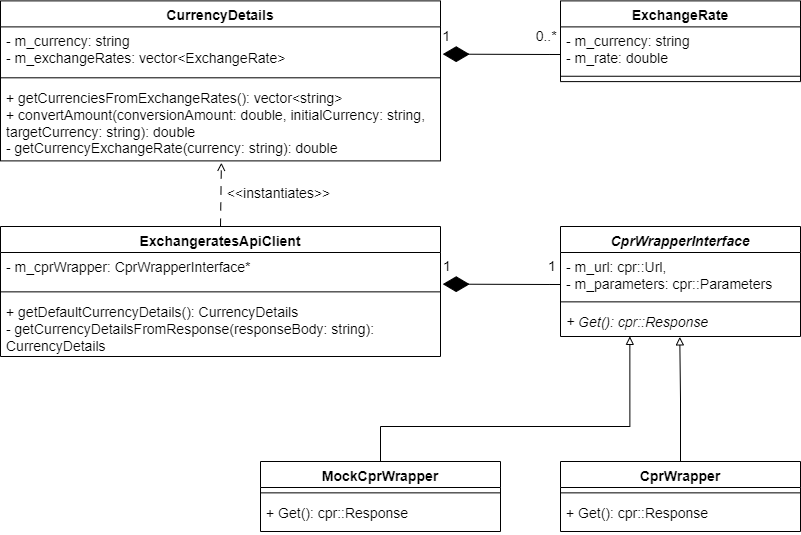
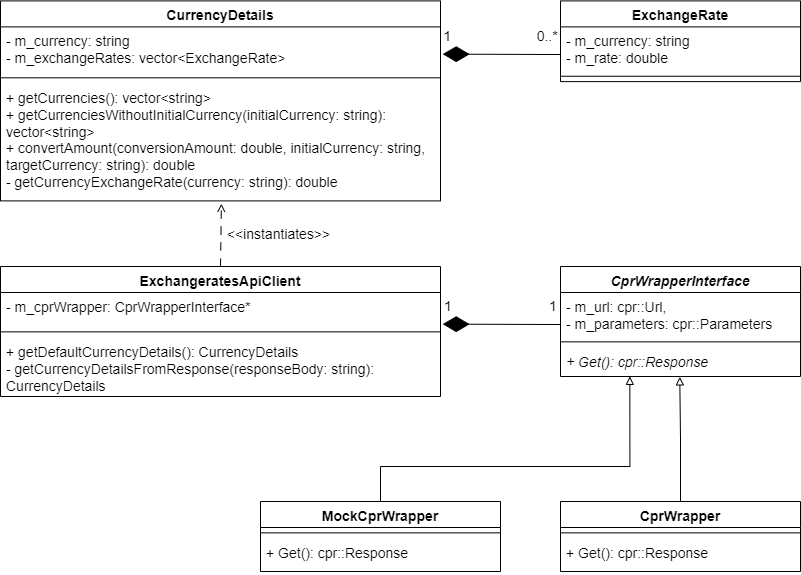
- Updated use case description - Updated class diagram and description - Updated Convert Currency activity diagram - Added activity diagram for getDefaultCurrencyDetails - Added activity diagram for getCurrencySelection - Added activity diagram for convertAmount

diff --git a/documentation/README.md b/documentation/README.md
@@ -13,6 +13,10 @@ This file contains all the documentation to CurrCalc's software design. This inc
   4.2 **[Use Case Description](#use-case-description)**</br>
 5. **[Class Diagram](#class-diagram)**</br>
 6. **[Activity Diagrams](#activity-diagrams)**</br>
+  6.1 **[Convert Currency](#convert-currency)**</br>
+  6.2 **[getDefaultCurrencyDetails](#getDefaultCurrencyDetails)**</br>
+  6.3 **[getCurrencySelection](#getCurrencySelection)**</br>
+  6.4 **[convertAmount](#convertAmount)**</br>
 
 # Goal
 
@@ -82,12 +86,12 @@ There is only one possible use case when interacting with CurrCalc. The "Convert
 		<td>
 			<ol type="1">
 				<li>CurrCalc prints a welcome message for the user in the terminal.</li>
-				<li>CurrCalc sends an HTTP GET request to the exchangerates API to retrieve Euro currency detail
+				<li>CurrCalc sends an HTTP GET request to the exchangerates API to retrieve default currency details
 					<ol type="i">
-						<li>The API responds with a JSON object containing the currency detail for the Euro currency, including all exchange rates</li>
+						<li>The API responds with a JSON object containing the currency details for the default currency, including all exchange rates</li>
 					</ol>
 				</li>
-				<li>CurrCalc outputs a numbered list of currencies, extracted from the Euro currency detail, and prompts the user to pick one for the initial currency
+				<li>CurrCalc outputs a numbered list of currencies, extracted from the default currency details, and prompts the user to pick one for the initial currency
 					<ol type="i">
 						<li>The user types in the number of the desired initial currency
 							<ol type="a">
@@ -96,7 +100,7 @@ There is only one possible use case when interacting with CurrCalc. The "Convert
 						</li>
 					</ol>
 				</li>
-				<li>CurrCalc outputs a numbered list of currencies, extracted from the Euro currency detail and excluding the initial currency, and prompts the user to pick one for the target currency
+				<li>CurrCalc outputs a numbered list of currencies, extracted from the default currency details and excluding the initial currency, and prompts the user to pick one for the target currency
 					<ol type="i">
 						<li>The user types in the number of the desired target currency
 							<ol type="a">
@@ -191,11 +195,13 @@ There is only one possible use case when interacting with CurrCalc. The "Convert
 ![CurrCalc Class Diagram](https://github.com/DusDus3428/CPP_CurrCalc/blob/feature/01_design/documentation/images/diagrams/03_CurrCalc_ClassDiagram.png "CurrCalc Class Diagram")
 
 At the heart of CurrCalc we will find three classes CurrencyDetails, ExchangeRate, and ExchangeratesApiClient.<br/> 
-CurrencyDetails holds two public properties, a string called "m_currency" for the name of the currency, and a list of ExchangeRate objects called "m_exchangeRates". The latter leads to a composition relationship from CurrencyDetails to ExchangeRate, which also holds two public properties, a string called "m_currency" for the name of the currency, and a double called "m_rate" for the actual exchange rate.<br/>. CurrencyDetails also has the public "getCurrenciesFromExchangeRates" and "convertAmount" methods. The former uses the m_exchangeRates property to extract all the currency names and pack them into a list which is then returned, wile the latter takes a conversion amount, and the initial and target currencies to perform a conversion using the m_exchangeRates property.<br/>
+CurrencyDetails holds two public properties, a string called "m_currency" for the name of the currency, and a list of ExchangeRate objects called "m_exchangeRates". The latter leads to a composition relationship from CurrencyDetails to ExchangeRate, which also holds two public properties, a string called "m_currency" for the name of the currency, and a double called "m_rate" for the actual exchange rate. The public methods "getCurrencies" and "getCurrenciesWithoutInitialCurrency" use the m_exchangeRates property to extract the currency names and pack them into a list which is then returned. The latter just excludes the initial currency from the list. The "convertAmount" method takes a conversion amount, and the initial and target currencies to perform a conversion using the m_exchangeRates property.<br/>
 Then there is ExchangeratesApiClient. As its name states, it represents the client that sends requests to the exchangesrates API and handles the responses. Its only property is "m_cprWrapper", a pointer to a CprWrapperInterface object, which leads to a composition relationship to the abstract class CprWrapperInterface. This will be explained shortly. The public getDefaultCurrencyDetails() method sends a request to the API to retrieve the currency details of the API's default currency (currently it's EUR). Then it utilizes the private getCurrencyDetailsFromResponse() method, which takes the response body as an argument, to extract and transform the information into a CurrencyDetails object.<br/>
 As mentioned above a ExchangeratesApiClient object has an attribute that points to a CprWrapperInterface object. CprWrapperInterface wraps the Get() method from the cpr library in a virtual method of the same name. Cpr's get method sends GET requests to APIs using a URL and parameters. That is why CprWrapperInterface has the two attributes "m_url" and "m_parameters". Two concrete classes inherit from this abstract one: CprWrapper and MockCprWrapper. CprWrapper implements the inherited Get() method which simply returns the cpr library's Get() method. MockCprWrapper is used for testing purposes to mock GET requests and the responses. This is why CprWrapperInterface mainly exists: to decouple the code and make it more testable for unit tests.
 
 # Activity Diagrams
+
+## Convert Currency
 
 ![CurrCalc Activity Diagram for Convert Currency](https://github.com/DusDus3428/CPP_CurrCalc/blob/feature/01_design/documentation/images/diagrams/04_CurrCalc_ActivityDiagram_ConvertCurrency.png "CurrCalc Activity Diagram for Convert Currency")
 
@@ -205,4 +211,14 @@ After the selection has been made, CurrCalc uses it to request the full details 
 Next, the user must choose the target currency from a numbered list. The activity Get Currency Selection is reused here. The only difference is that the numbered list is gathered from the initial currency's exchange rates. This is done for two reasons: on one hand, we do not know if the API has all the exchange rates for the selected initial currency, and on the other, we do not need to include the initial currency.<br/>
 Once this is done, the specified amount will be converted from the initial currency into the target one and the results will be printed to the console. Then the CurrCalc program is terminated. 
 
-Please note that this is a very simplified activity diagram that displays the rough ideal flow of the program. All the possibilities of program termination are not depicted. However, they are described in the use case table **[here](#use-cases)**.
+## getDefaultCurrencyDetails
+
+![CurrCalc Activity Diagram for getDefaultCurrencyDetails](https://github.com/DusDus3428/CPP_CurrCalc/blob/feature/01_design/documentation/images/diagrams/05_CurrCalc_ActivityDiagram_getDefaultCurrencyDetails.png "CurrCalc Activity Diagram for getDefaultCurrencyDetails")
+
+## getCurrencySelection
+
+![CurrCalc Activity Diagram for getCurrencySelection](https://github.com/DusDus3428/CPP_CurrCalc/blob/feature/01_design/documentation/images/diagrams/06_CurrCalc_ActivityDiagram_getCurrencySelection.png "CurrCalc Activity Diagram for getCurrencySelection")
+
+## convertAmount
+
+![CurrCalc Activity Diagram for convertAmount](https://github.com/DusDus3428/CPP_CurrCalc/blob/feature/01_design/documentation/images/diagrams/07_CurrCalc_ActivityDiagram_convertAmount.png "CurrCalc Activity Diagram for convertAmount")
